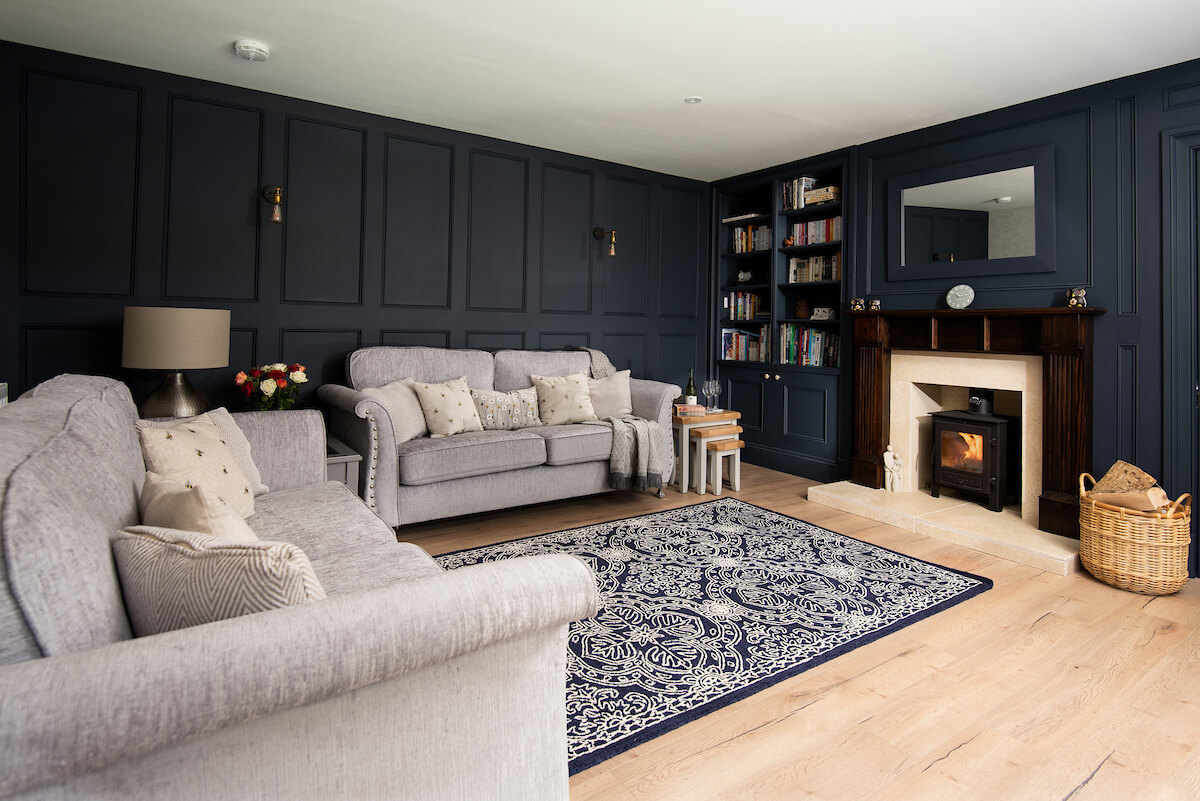
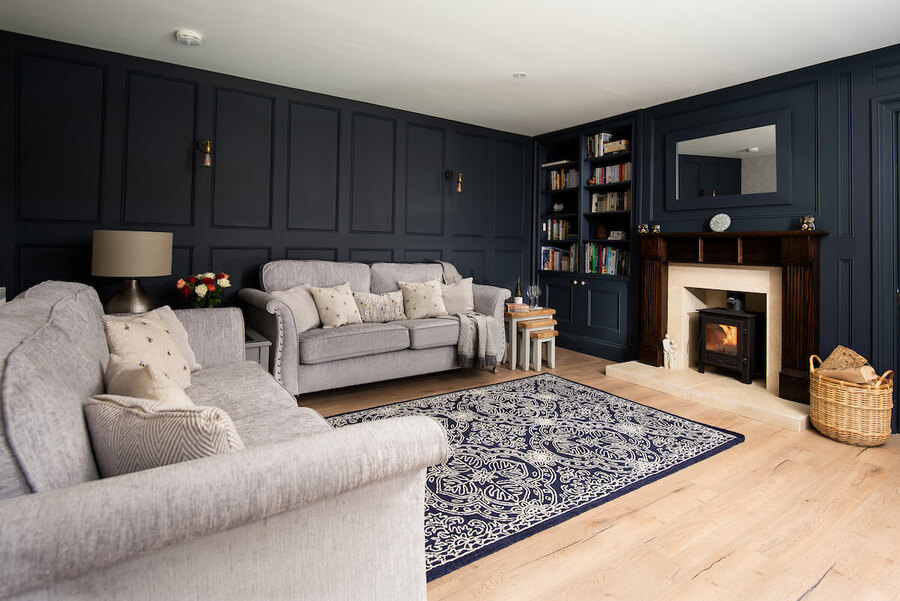
Re-sizing of images based on early google lighthouse test audit

Changed region(s): [[0.4667, 0.629, 0.8089, 0.9584]]

diff --git a/index.html b/index.html
@@ -1,18 +1,18 @@
 <!DOCTYPE html>
 <html lang="en">
     <head>
-        <meta charset="UTF-8" />
-        <meta http-equiv="X-UA-Compatible" content="IE=edge" />
-        <meta name="viewport" content="width=device-width, initial-scale=1.0" />
+        <meta charset="UTF-8">
+        <meta http-equiv="X-UA-Compatible" content="IE=edge">
+        <meta name="viewport" content="width=device-width, initial-scale=1.0">
         <title>West Mill Cottage</title>
-        <link rel="icon" type="image/x-icon" href="assets/images/West_Mill_Cottage_Alternative_Logo.png" />
-        <meta name="description" content="West Mill Cottage is a blissfully tranquil riverside cottage set in rural countryside where England meets Scotland" />
-        <meta name="keywords" content="holiday home, holiday let, holiday cottage, berwick upon tweed, scottish borders, northumberland, weekend away, staycation" />
-        <meta name="author" content="West Mill Cottage" />
+        <link rel="icon" type="image/x-icon" href="assets/images/West_Mill_Cottage_Alternative_Logo.png">
+        <meta name="description" content="West Mill Cottage is a blissfully tranquil riverside cottage set in rural countryside where England meets Scotland">
+        <meta name="keywords" content="holiday home, holiday let, holiday cottage, berwick upon tweed, scottish borders, northumberland, weekend away, staycation">
+        <meta name="author" content="West Mill Cottage">
         <!-- Bootstraap 5.2.1 CSS only -->
-        <link href="https://cdn.jsdelivr.net/npm/bootstrap@5.2.1/dist/css/bootstrap.min.css" rel="stylesheet" integrity="sha384-iYQeCzEYFbKjA/T2uDLTpkwGzCiq6soy8tYaI1GyVh/UjpbCx/TYkiZhlZB6+fzT" crossorigin="anonymous" />
+        <link href="https://cdn.jsdelivr.net/npm/bootstrap@5.2.1/dist/css/bootstrap.min.css" rel="stylesheet" integrity="sha384-iYQeCzEYFbKjA/T2uDLTpkwGzCiq6soy8tYaI1GyVh/UjpbCx/TYkiZhlZB6+fzT" crossorigin="anonymous">
         <script src="https://kit.fontawesome.com/12ef280c55.js" crossorigin="anonymous"></script>
-        <link rel="stylesheet" href="assets/css/style.css" type="text/css"/>
+        <link rel="stylesheet" href="assets/css/style.css" type="text/css">
     </head>
 
     <body>
@@ -64,14 +64,14 @@
                                 <button type="button" data-bs-target="#carouselExampleIndicators" data-bs-slide-to="2" aria-label="Slide 3"></button>
                             </div>
                             <div class="carousel-inner">
-                                <div class="carousel-item active">
-                                    <img src="assets/images/11_living_room_area.jpg" class="d-block mx-lg-auto img-fluid" alt="a cosy countryside living room" width="900" height="700" />
+                                <div class="carousel-item active ">
+                                    <img src="assets/images/11_living_room_area.jpg" class="d-block mx-lg-auto img-fluid" alt="a cosy countryside living room" width="900" height="600">
                                 </div>
                                 <div class="carousel-item">
-                                    <img src="assets/images/9_view_of_log_burner_in_dining_room.jpg" class="d-block mx-lg-auto img-fluid" alt="a dining room with log burner" width="900" height="700" />
+                                    <img src="assets/images/9_view_of_log_burner_in_dining_room.jpg" class="d-block mx-lg-auto img-fluid" alt="a dining room with log burner" width="900" height="600">
                                 </div>
                                 <div class="carousel-item">
-                                    <img src="assets/images/4_view_of_the_kitchen.jpg" class="d-block mx-lg-auto img-fluid" alt="a kitchen with large windows and lots of natural light" width="900" height="700" />
+                                    <img src="assets/images/4_view_of_the_kitchen.jpg" class="d-block mx-lg-auto img-fluid" alt="a kitchen with large windows and lots of natural light" width="900" height="600">
                                 </div>
                             </div>
                             <button class="carousel-control-prev" type="button" data-bs-target="#carouselExampleIndicators" data-bs-slide="prev">
@@ -87,15 +87,14 @@
                     <div class="col-12 col-sm-12 col-lg-6">
                         <h1 class="display-4 fw-bold lh-1 mb-3 hero-title">Stay at West Mill Cottage</h1>
                         <p class="hero-text">
-                            West Mill is a charming cottage set in a picturesque rural location. It is one of two cottages located on the banks of a large meander in the River Whiteadder just outside the village of Paxton. 
-                            Set at the end of a no-through road three miles west of Berwick-upon-Tweed, England’s northernmost town, and just east of the river from Paxton, a small Saxon village set in Scotland, West Mill Cottage 
-                            is a true Borders home.
-                            </p>
-                            <p class="hero-text">
-                                The river, which flows just outside the cottage windows, is bubbling with wildlife - watch the local otter hunt for trout and salmon or observe the graceful white swans who nest nearby.
-                                Chances are you’ll also spot deer grazing outside or catch sight of a heron flashing along the riverbank. The ever-changing scenery doesn’t even stop when night falls. West Mill Cottage lies 
-                                below some of the country’s most pristine dark skies, which make for an unforgettable experience. 
-                            </p>
+                            West Mill is a charming cottage set in a picturesque rural location. It is one of two cottages located on the banks of a large meander in the River Whiteadder just outside the village of Paxton. Set at the end of
+                            a no-through road three miles west of Berwick-upon-Tweed, England’s northernmost town, and just east of the river from Paxton, a small Saxon village set in Scotland, West Mill Cottage is a true Borders home.
+                        </p>
+                        <p class="hero-text">
+                            The river, which flows just outside the cottage windows, is bubbling with wildlife - watch the local otter hunt for trout and salmon or observe the graceful white swans who nest nearby. Chances are you’ll also
+                            spot deer grazing outside or catch sight of a heron flashing along the riverbank. The ever-changing scenery doesn’t even stop when night falls. West Mill Cottage lies below some of the country’s most pristine
+                            dark skies, which make for an unforgettable experience.
+                        </p>
                         <div>
                             <a role="button" class="btn btn-1 btn-sm px-4 me-md-2" aria-label="Property details page" href="propertydetails.html">Property Details ></a>
                         </div>
@@ -104,69 +103,69 @@
             </div>
         </section>
 
-                <!-- ========== Plain Background Section ========== -->
-                <section>
-                    <div class="container-fluid px-3 py-3 text-center section-plain">
-                        <div class="row g-2">
-                            <div class="col-sm">
-                                <div class="p-3 inner-section-plain">
-                                    <div>
-                                        <img src="assets/images/8_dining_room_and_snug.jpg" class="img-fluid" alt="a dining room and snug all in one" width="600" height="400" />
-                                    </div>
-                                    <div>
-                                        <h5 class="home-title-1">Property Details</h5>
-                                        <p>Take a sneak peak at what's on offer</p>
-                                        <a role="button" class="btn btn-1 btn-sm px-4 me-md-2" aria-label="Property details page" href="propertydetails.html">View Now ></a>
-                                    </div>
-                                </div>
+        <!-- ========== Plain Background Section ========== -->
+        <section>
+            <div class="container-fluid px-3 py-3 text-center section-plain">
+                <div class="row g-2">
+                    <div class="col-sm">
+                        <div class="p-3 inner-section-plain">
+                            <div>
+                                <img src="assets/images/8_dining_room_and_snug.jpg" class="img-fluid" alt="a dining room and snug all in one" width="600" height="400">
                             </div>
-                            <div class="col-sm">
-                                <div class="p-3 inner-section-plain">
-                                    <div>
-                                        <img src="assets/images/28_birds_eye_view_of_property.jpg" class="img-fluid" alt="a birds eye view photo of the cottage and surrounding countryside" width="600" height="400" />
-                                    </div>
-                                    <div>
-                                        <h5 class="home-title-1">Location</h5>
-                                        <p>Locate this perfect beauty spot</p>
-                                        <a role="button" class="btn btn-1 btn-sm px-4 me-md-2" aria-label="Location page" href="location.html">View Now ></a>
-                                    </div>
-                                </div>
+                            <div>
+                                <h5 class="home-title-1">Property Details</h5>
+                                <p>Take a sneak peak at what's on offer</p>
+                                <a role="button" class="btn btn-1 btn-sm px-4 me-md-2" aria-label="Property details page" href="propertydetails.html">View Now ></a>
                             </div>
                         </div>
                     </div>
-                </section>
-        
-                <!-- ========== Coloured Background Section ========== -->
-                <section>
-                    <div class="container-fluid px-3 py-3 text-center section-colour">
-                        <div class="row g-2">
-                            <div class="col-sm">
-                                <div class="p-3 inner-section-colour">
-                                    <div>
-                                        <img src="assets/images/people_paddle_boarding_on_sea.png" class="img-fluid" alt="a black and white image of causeway and beach" width="600" height="400" />
-                                    </div>
-                                    <div>
-                                        <h5 class="home-title-1">Activities</h5>
-                                        <p>What will you get up to</p>
-                                        <a role="button" class="btn btn-1 btn-sm px-4 me-md-2" aria-label="Activities page" href="activities.html">View Now ></a>
-                                    </div>
-                                </div>
+                    <div class="col-sm">
+                        <div class="p-3 inner-section-plain">
+                            <div>
+                                <img src="assets/images/28_birds_eye_view_of_property.jpg" class="img-fluid" alt="a birds eye view photo of the cottage and surrounding countryside" width="600" height="400">
                             </div>
-                            <div class="col-sm">
-                                <div class="p-3 inner-section-colour">
-                                    <div>
-                                        <img src="assets/images/family_in_countryside.png" class="img-fluid" alt="an image of a family having fun with dogs" width="600" height="400" />
-                                    </div>
-                                    <div>
-                                        <h5 class="home-title-1">About</h5>
-                                        <p>A little more about West Mill</p>
-                                        <a role="button" class="btn btn-1 btn-sm px-4 me-md-2" aria-label="About page" href="about.html">View Now ></a>
-                                    </div>
-                                </div>
+                            <div>
+                                <h5 class="home-title-1">Location</h5>
+                                <p>Locate this perfect beauty spot</p>
+                                <a role="button" class="btn btn-1 btn-sm px-4 me-md-2" aria-label="Location page" href="location.html">View Now ></a>
                             </div>
                         </div>
                     </div>
-                </section>
+                </div>
+            </div>
+        </section>
+
+        <!-- ========== Coloured Background Section ========== -->
+        <section>
+            <div class="container-fluid px-3 py-3 text-center section-colour">
+                <div class="row g-2">
+                    <div class="col-sm">
+                        <div class="p-3 inner-section-colour">
+                            <div>
+                                <img src="assets/images/people_paddle_boarding_on_sea.png" class="img-fluid" alt="an image of people padding boarding in the sea" width="600" height="400">
+                            </div>
+                            <div>
+                                <h5 class="home-title-1">Activities</h5>
+                                <p>What will you get up to</p>
+                                <a role="button" class="btn btn-1 btn-sm px-4 me-md-2" aria-label="Activities page" href="activities.html">View Now ></a>
+                            </div>
+                        </div>
+                    </div>
+                    <div class="col-sm">
+                        <div class="p-3 inner-section-colour">
+                            <div>
+                                <img src="assets/images/family_in_countryside.png" class="img-fluid img-resize" alt="an image of a family having fun with dogs" width="600" height="400">
+                            </div>
+                            <div>
+                                <h5 class="home-title-1">About</h5>
+                                <p>A little more about West Mill</p>
+                                <a role="button" class="btn btn-1 btn-sm px-4 me-md-2" aria-label="About page" href="about.html">View Now ></a>
+                            </div>
+                        </div>
+                    </div>
+                </div>
+            </div>
+        </section>
 
         <!-- ========== Footer Section ========== -->
         <!-- ========== Idea taken from Code Institute Project (Resume) ========== -->
@@ -176,8 +175,8 @@
                     <div class="col-sm-6 text-left contacts">
                         <h5 class="footer-head">West Mill Cottage</h5>
                         <p class="footer-p">
-                            Berwick Upon Tweed, Northumberland<br />
-                            Tel: <a href="tel:01289302593">01289 302 593</a><br />
+                            Berwick Upon Tweed, Northumberland<br>
+                            Tel: <a href="tel:01289302593">01289 302 593</a><br>
                             Email: <a href="mailto:holiday@westmillcottage.com">holiday@westmillcottage.com</a>
                         </p>
                     </div>
@@ -210,7 +209,7 @@
                         </ul>
                     </div>
                 </div>
-                <hr />
+                <hr>
                 <div class="col-12 d-flex justify-content-center">
                     <p class="small copyright">
                         Copyright © 2022 West Mill Cottage

diff --git a/assets/css/style.css b/assets/css/style.css
@@ -2,50 +2,43 @@
 Google Fonts 
 ========== */
 
-@import url('https://fonts.googleapis.com/css2?family=Aboreto&family=Lato:ital,wght@0,100;0,300;0,400;0,700;0,900;1,100;1,300;1,400;1,700;1,900&display=swap');
+@import url("https://fonts.googleapis.com/css2?family=Aboreto&family=Lato:ital,wght@0,100;0,300;0,400;0,700;0,900;1,100;1,300;1,400;1,700;1,900&display=swap");
 
 /* ========== 
 General Styles 
 ========== */
 
 body {
-    font-family: 'Lato', sans-serif;
+    font-family: "Lato", sans-serif;
     color: #212121;
     background-color: #9da6a9;
 }
 
 .home-title-1 {
-    font-family: 'Aboreto', cursive;
+    font-family: "Aboreto", cursive;
     font-size: x-large;
     padding-top: 10px;
 }
 
 .page-title {
-    font-family: 'Aboreto', cursive;
+    font-family: "Aboreto", cursive;
     font-size: xx-large;
     padding-top: 10px;
 }
 
 .page-title-text {
-    font-family: 'Lato', sans-serif;
+    font-family: "Lato", sans-serif;
     font-size: medium;
     font-weight: 500;
     padding-top: 10px;
 }
-
-
-
-
-
-
-
 
 /* ========== 
 Header & Navigation Styles 
 ========== */
 
 .logo {
-    font-family: 'Aboreto', cursive;
+    font-family: "Aboreto", cursive;
     font-size: x-large;
     margin: 0;
 }
@@ -109,12 +102,12 @@ Section Styles
 }
 
 .hero-title {
-    font-family: 'Aboreto', cursive;
+    font-family: "Aboreto", cursive;
     padding-top: 15px;
 }
 
 .hero-text {
-    font-family: 'Lato', sans-serif;
+    font-family: "Lato", sans-serif;
     font-size: medium;
     font-weight: 500;
 }
@@ -144,7 +137,7 @@ Button Styles
     color: #212121;
 }
 
-.btn.btn-1:hover{
+.btn.btn-1:hover {
     background-color: #ffecb3;
     border: 1px solid #9da6a9;
     color: #212121;
@@ -199,7 +192,6 @@ footer {
 .contacts p a:hover {
     color: #ffecb3;
     border-bottom: #ffecb3 1px solid;
-    
 }
 
 footer hr {
@@ -211,14 +203,14 @@ footer hr {
     padding-bottom: 28px;
 }
 
-@media screen and (max-width:575px) {
+@media screen and (max-width: 575px) {
     #footer-details {
         text-align: center;
-    }   
+    }
 }
 
-@media screen and (min-width:576px) {
+@media screen and (min-width: 576px) {
     .social-links {
         text-align: end;
-    }   
+    }
 }

diff --git a/TESTING.md b/TESTING.md
@@ -1,0 +1,8 @@
+- Made site live on GitHub pages early on in dev process to test on real hardware iPhone 13 PRO and iPhone 11, Mac Book Air 2015 and HP Desktop 27in. (Credit to CI Mentor for this advice).
+
+
+- Based on early google lighthouse report the following was identified:
+  + Re-size images and maintain aspect ratio - this was done manually using Adobe Illustrator to ensure speedier load times
+  + Next gen image formats were suggested by google lighthouse but it was decided not pursue this as these formats are not supported on all browsers at this time.
+
+
